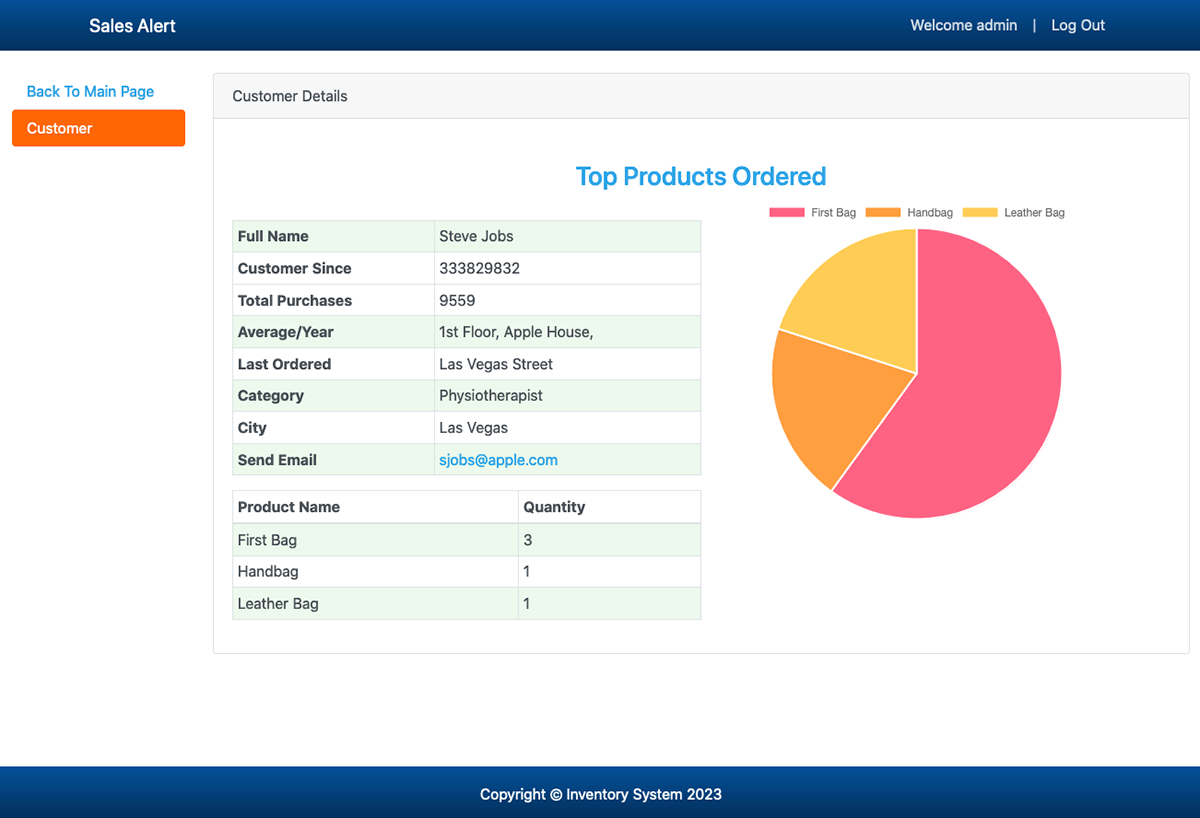
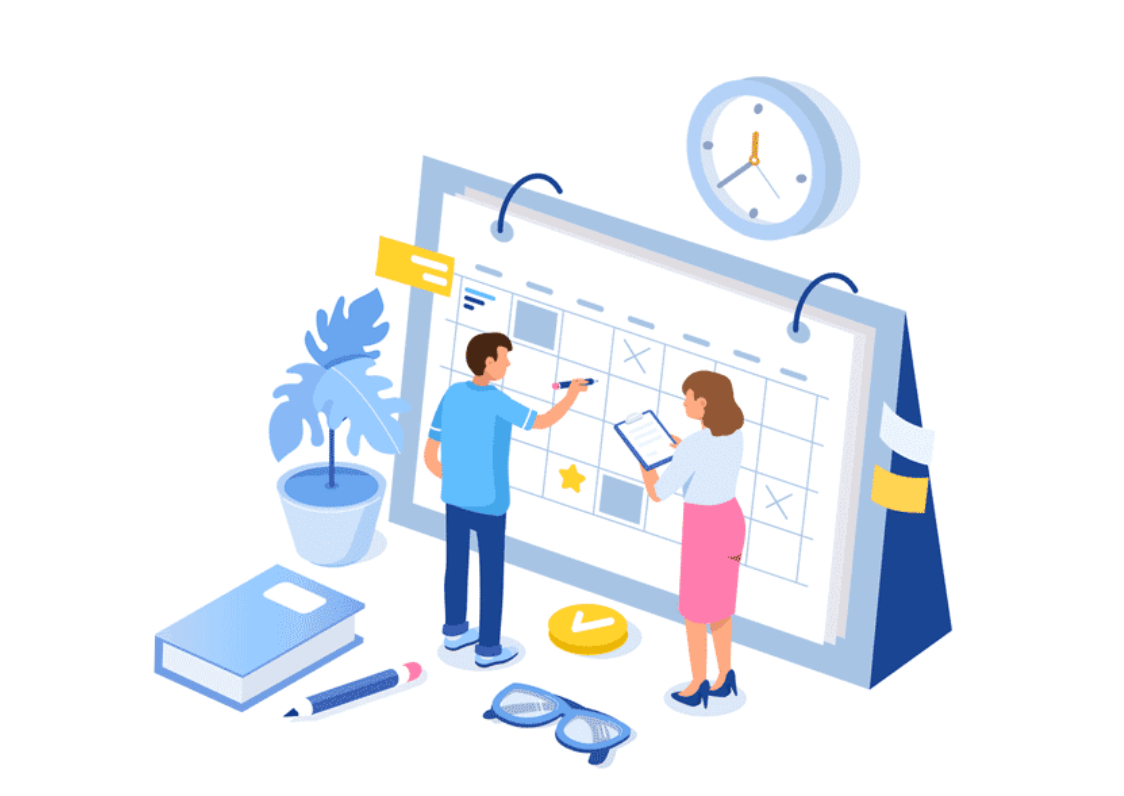
.project2

diff --git a/src/pages/projects.js b/src/pages/projects.js
@@ -74,11 +74,10 @@ const projects = () => {
             <div className='grid grid-cols-12 gap-24 gap-y-32 xl:gap-x-16 lg:gap-x-8 md:gap-y-24 sm:gap-x-0'>
                 <div className='col-span-12'>
                     <FeaturedProject
-                    type="Mobile App"
-                    title="SportsBuddy"
-                    summary="Sports social media mobile app aimed at connecting athletes and sports clubs within a specific geographic radius.
-Built using React Native, Expo Go, and React Native UI components to ensure a smooth and intuitive user experience."
-                    img={project1}
+                    type="Desktop App"
+                    title="Scheduling"
+                    summary="Desktop-based appointment manager built in C++ on Windows for listing, creating, editing and deleting appointments"
+                    img={project2}
                     link="#"
                     />
                 </div>
